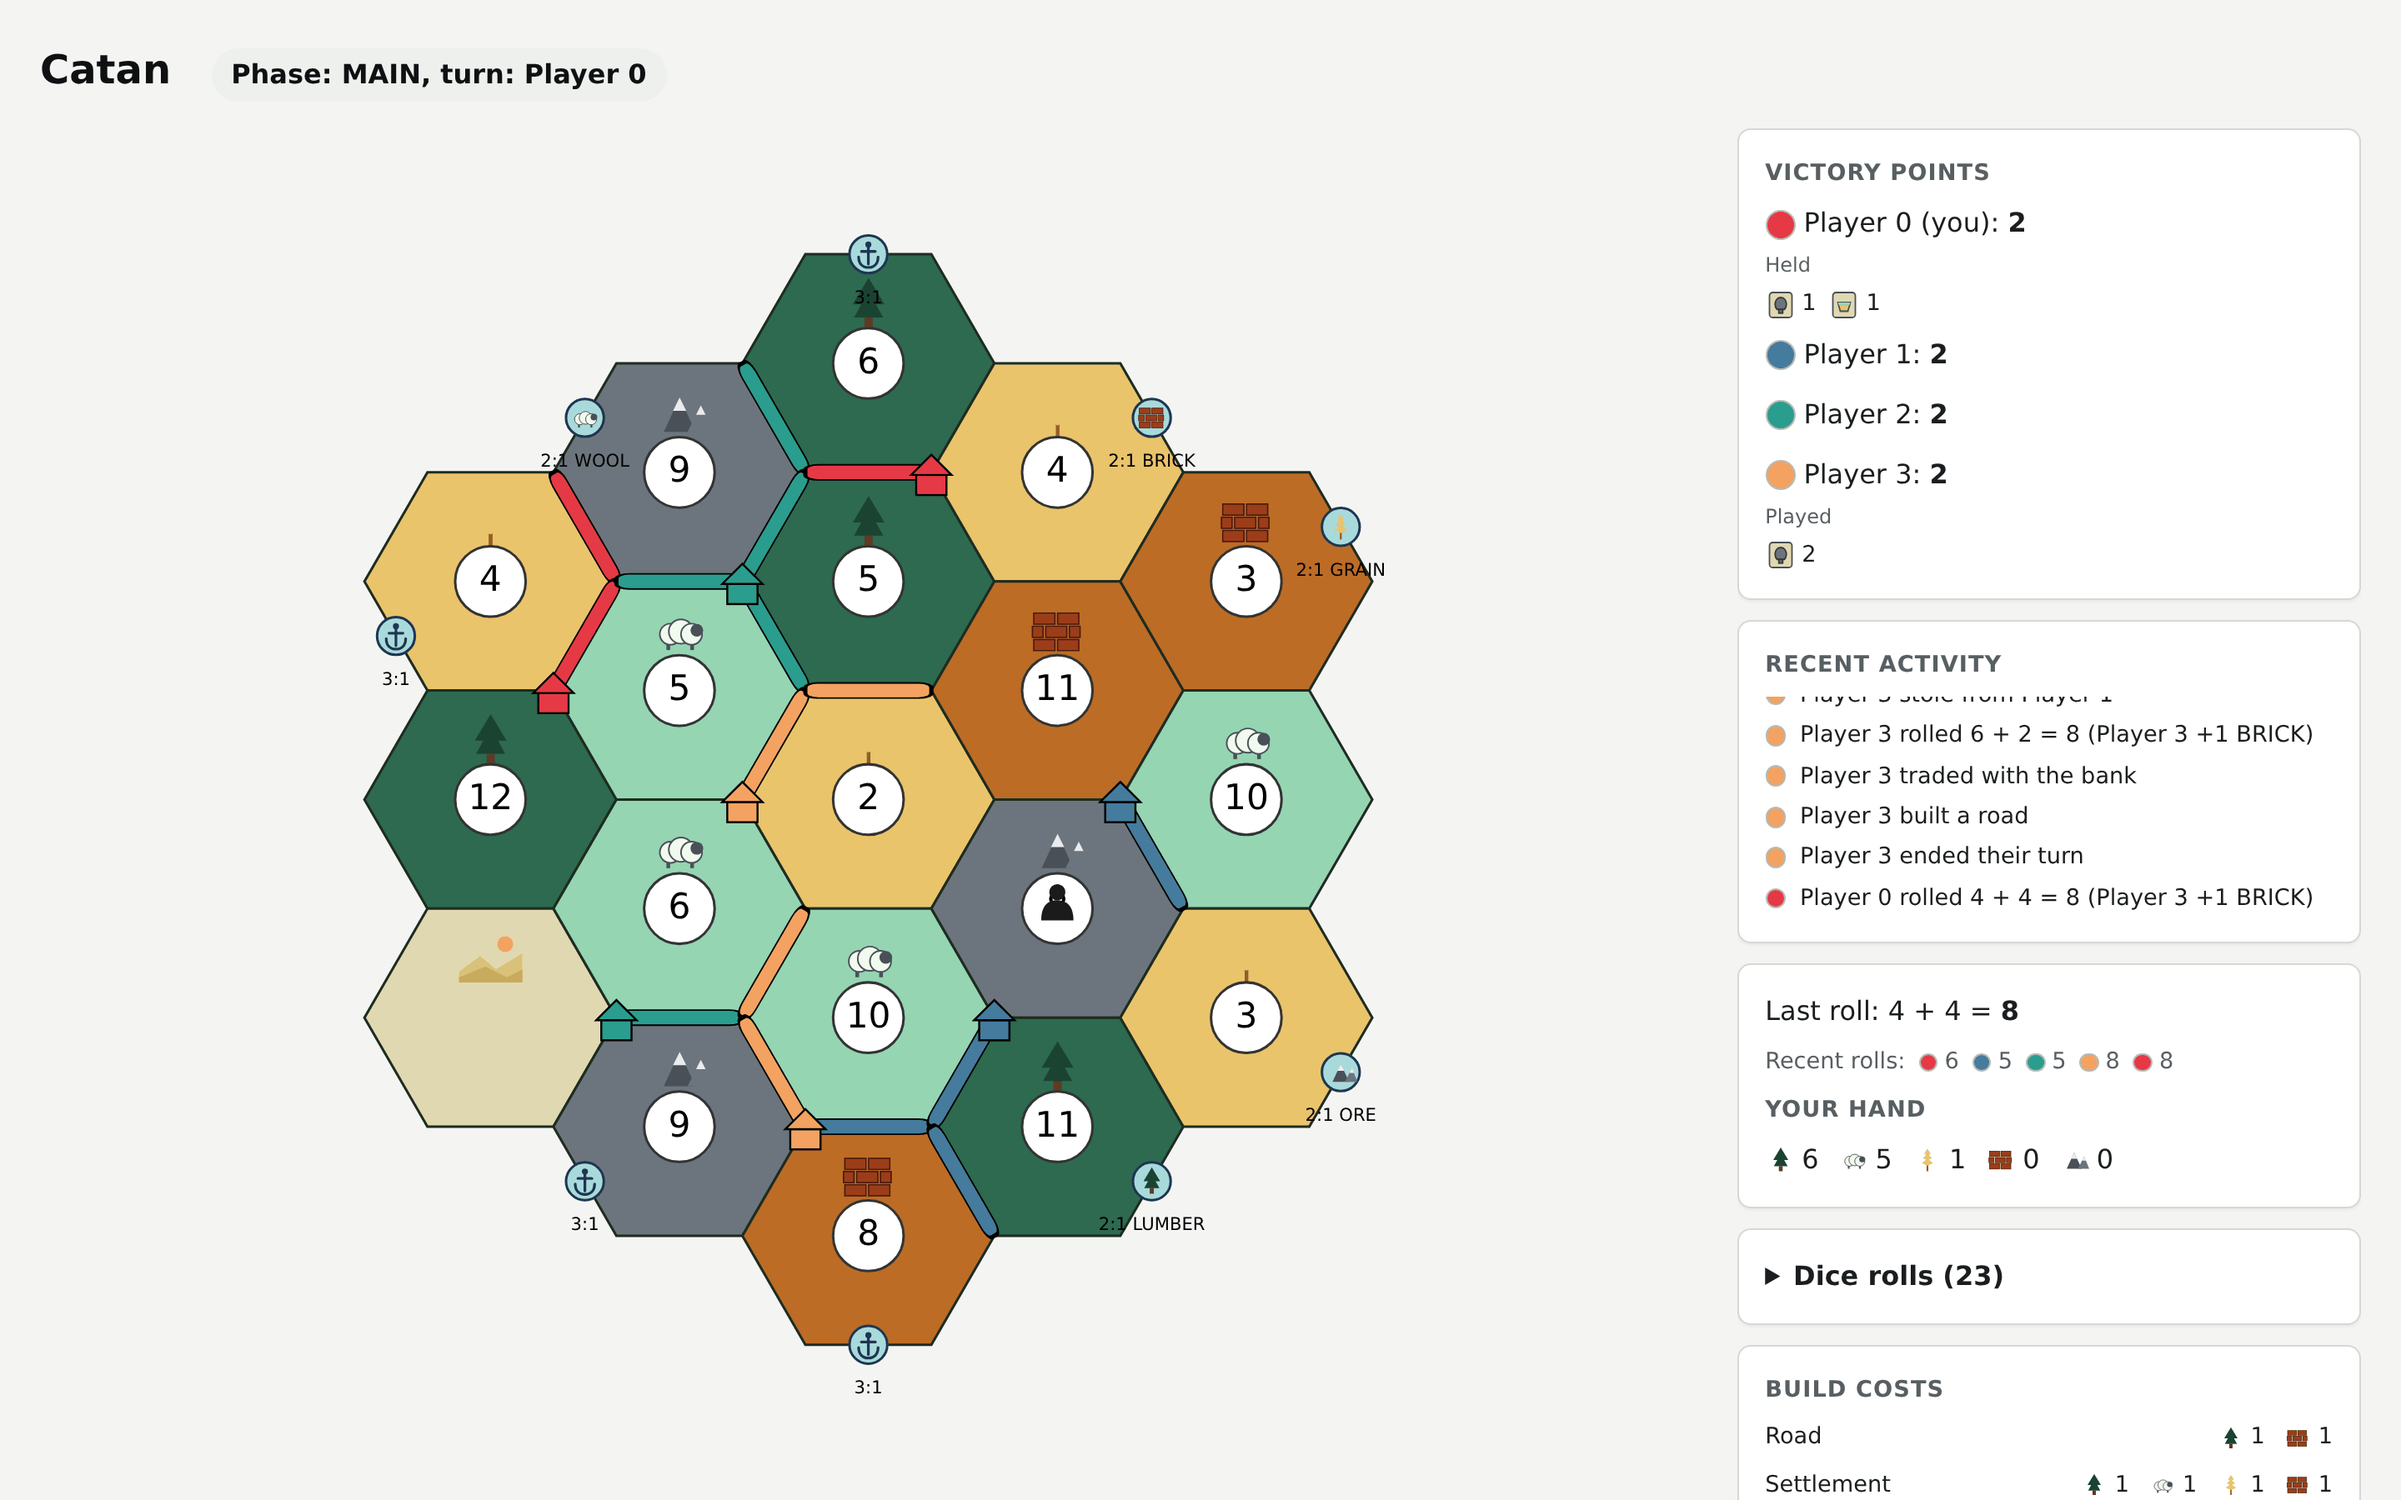
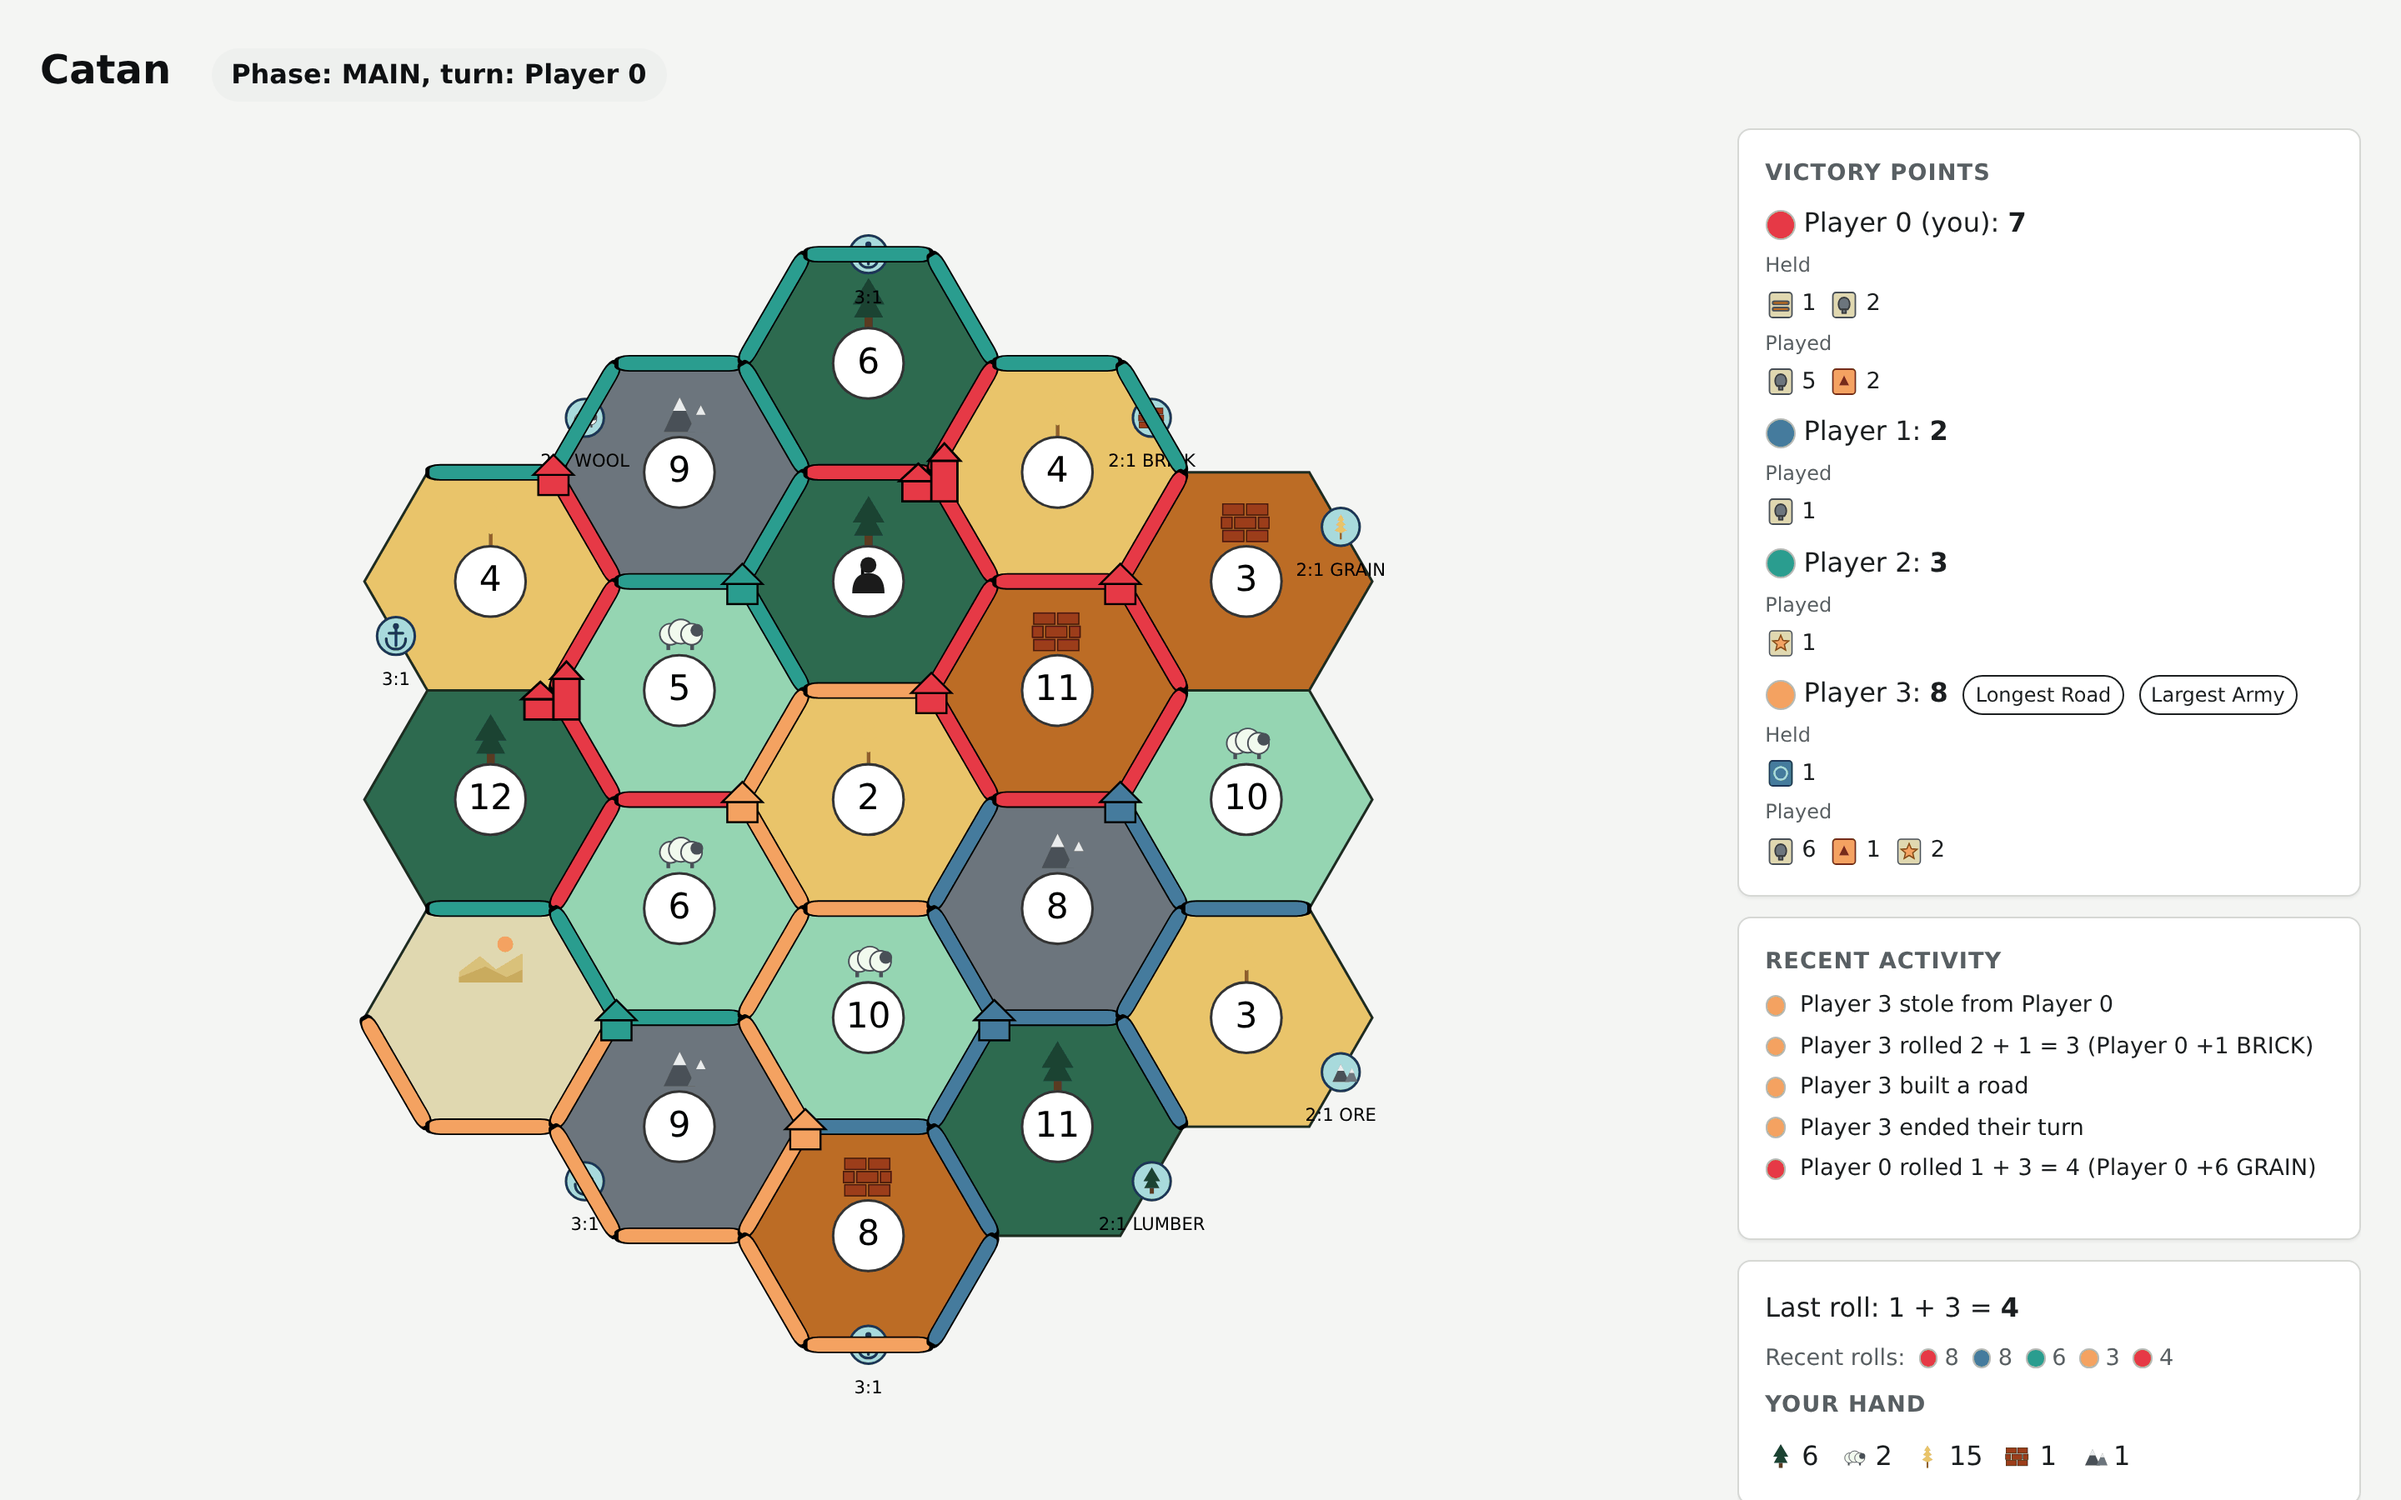
docs: later-game screenshots, whole log lines, less-dimmed GIF
- Showcase the seeded game at turn 183 (7-8 VP, cities, long roads) and
  start the GIF from turn 139, where seat 0 can build.
- Snap the activity log to whole lines for board.png (capture-only inline
  style; the clipped top line is ordinary scroll-container behaviour).
- GIF: more of the clip is the undimmed human turn; the bots' replay, which
  the app dims by design (.layout.busy), plays at 2x.

diff --git a/scripts/capture_screenshots.py b/scripts/capture_screenshots.py
@@ -63,20 +63,24 @@ DRIVER_SEED = 7
 NUM_PLAYERS = 4
 SEAT_KINDS: list[SeatKind] = ["human", "heuristic", "heuristic", "heuristic"]
 HUMAN_SEAT = 0
-# Seat 0 is played by a HeuristicAgent in-process up to this turn, so the
-# board already has settlements, cities and roads when the browser takes over.
-SHOWCASE_TURN = 18
+# Seat 0 is played by a HeuristicAgent in-process up to this turn (a count of
+# per-seat turns, ~4 per round), so the board already has cities, settlements
+# and long roads when the browser takes over -- 7-8 VP for the leaders here.
+SHOWCASE_TURN = 183
 # The GIF game stops at the first turn from here on where seat 0's roll (not a
 # 7) leaves a placement it can afford, so the clip always shows a build.
-GIF_MIN_TURN = 12
+GIF_MIN_TURN = 130
 GIF_NAME = "gameplay.gif"
 GIF_WIDTH = 900
 GIF_FPS = 10
-# Source seconds kept after the board first shows, played back GIF_SPEEDUP x
-# faster so the whole paced bot replay fits in a ~12 s clip.
-GIF_SOURCE_SECONDS = 18.0
-GIF_SPEEDUP = 1.5
+# The app dims the whole board (`.layout.busy`, opacity 0.6) for as long as a
+# move is being applied / the bots' paced replay is revealing, so that stretch
+# is played back GIF_REPLAY_SPEEDUP x faster and the clip is mostly the
+# undimmed human turn.
+GIF_REPLAY_SPEEDUP = 2.0
+GIF_TAIL_SECONDS = 1.5
 GIF_LEAD_SECONDS = 0.5
+GIF_MAX_BUILDS = 2
 MAX_GIF_BYTES = 4 * 1024 * 1024
 
 VIEWPORT = {"width": 1440, "height": 900}
@@ -188,6 +192,30 @@ def _scroll_panels(page: Page, *, to_bottom: bool) -> None:
     )
 
 
+def _snap_log_to_whole_lines(page: Page) -> None:
+    """Show only whole lines in the activity log.
+
+    The list is a fixed-height scroll area pinned to its newest entry, so
+    whichever line sits at the top edge is normally cut mid-line -- ordinary
+    scroll-container behaviour, not an app bug. Shrink the list (inline style,
+    capture only) to the whole lines that fit and re-pin it to the bottom.
+    """
+    page.evaluate(
+        """() => {
+            const ul = document.querySelector(".activity-log ul");
+            const gap = parseFloat(getComputedStyle(ul).rowGap) || 0;
+            let used = 0;
+            for (let i = ul.children.length - 1; i >= 0; i--) {
+                const next = used + ul.children[i].offsetHeight + (used ? gap : 0);
+                if (next > ul.clientHeight) break;
+                used = next;
+            }
+            ul.style.maxHeight = `${used}px`;
+            ul.scrollTop = ul.scrollHeight;
+        }"""
+    )
+
+
 def _click_action(page: Page, kind: str) -> None:
     page.get_by_role("button", name=kind, exact=True).click()
     _settle(page)
@@ -251,6 +279,7 @@ def _capture(
             _click_action(page, "EndTurn")
             _click_action(page, "RollDice")
             _scroll_panels(page, to_bottom=False)
+            _snap_log_to_whole_lines(page)
             _save_png(page, "board.png")
 
             page.locator("details.dice-panel summary").click()
@@ -294,7 +323,9 @@ def _capture(
 
 
 def _record_gif(browser: Browser, base_url: str, game_id: str, tmp: Path) -> None:
-    """Roll, build, end turn, and let the bots' paced replay play out."""
+    """Roll and build with the board undimmed, then end the turn and let the
+    bots' paced replay play out.
+    """
     ctx = browser.new_context(
         viewport=VIEWPORT,
         record_video_dir=str(tmp / "video"),
@@ -307,47 +338,64 @@ def _record_gif(browser: Browser, base_url: str, game_id: str, tmp: Path) -> Non
     page.goto(base_url)
     page.get_by_role("button", name="Resume game").click()
     page.get_by_role("heading", name="Victory points").wait_for()
-    lead = time.monotonic() - started + GIF_LEAD_SECONDS
-    page.wait_for_timeout(1000)
+    start_s = time.monotonic() - started + GIF_LEAD_SECONDS
+    page.wait_for_timeout(1200)
     _click_action(page, "RollDice")
     page.wait_for_timeout(1000)
-    # Prefer a settlement/city over a road: it changes the board more.
+    # Vertex targets (settlement/city) come before edge targets in the DOM, so
+    # the first build is a settlement/city whenever one is affordable.
     targets = page.locator("circle.highlight-vertex, rect.edge-hit-target")
-    targets.first.hover()
-    page.wait_for_timeout(600)
-    targets.first.click()
-    page.wait_for_selector("em:has-text('applying your move')", state="detached")
-    page.wait_for_timeout(1000)
-    # End the turn and watch the paced replay, un-skipped.
+    for _ in range(GIF_MAX_BUILDS):
+        if targets.count() == 0:
+            break
+        targets.first.hover()
+        page.wait_for_timeout(800)
+        targets.first.click()
+        page.wait_for_selector("em:has-text('applying your move')", state="detached")
+        page.wait_for_timeout(1000)
+    replay_s = time.monotonic() - started
     page.get_by_role("button", name="EndTurn", exact=True).click()
     page.wait_for_selector("em:has-text('applying your move')", state="detached")
-    page.wait_for_timeout(1500)
+    page.wait_for_timeout(int(GIF_TAIL_SECONDS * 1000))
+    end_s = time.monotonic() - started
     video = page.video
     assert video is not None
     ctx.close()  # finalizes the webm
-    _encode_gif(Path(video.path()), max(lead, 0.0), tmp)
+    _encode_gif(Path(video.path()), start_s, replay_s, end_s, tmp)
 
 
-def _encode_gif(webm: Path, start_s: float, tmp: Path) -> None:
+def _encode_gif(
+    webm: Path, start_s: float, replay_s: float, end_s: float, tmp: Path
+) -> None:
+    """Two-pass palettegen/paletteuse; ``[start_s, replay_s)`` at 1x, the rest
+    (the bots' replay) at ``GIF_REPLAY_SPEEDUP`` x. Times are seconds into the
+    recording.
+    """
     if shutil.which("ffmpeg") is None:
         raise RuntimeError("--gif needs ffmpeg on PATH")
     palette = tmp / "palette.png"
-    trim = ["-ss", f"{start_s:.2f}", "-t", f"{GIF_SOURCE_SECONDS}", "-i", str(webm)]
-    scale = f"setpts=PTS/{GIF_SPEEDUP},fps={GIF_FPS},scale={GIF_WIDTH}:-1:flags=lanczos"
-    base = ["ffmpeg", "-y", "-loglevel", "error"]
+    chain = (
+        f"[0:v]split=2[a][b];"
+        f"[a]trim=start={start_s:.2f}:end={replay_s:.2f},setpts=PTS-STARTPTS[a1];"
+        f"[b]trim=start={replay_s:.2f}:end={end_s:.2f},"
+        f"setpts=(PTS-STARTPTS)/{GIF_REPLAY_SPEEDUP}[b1];"
+        f"[a1][b1]concat=n=2:v=1:a=0,fps={GIF_FPS},"
+        f"scale={GIF_WIDTH}:-1:flags=lanczos"
+    )
+    base = ["ffmpeg", "-y", "-loglevel", "error", "-i", str(webm)]
     subprocess.run(
-        [*base, *trim, "-vf", f"{scale},palettegen=stats_mode=diff", str(palette)],
+        [*base, "-filter_complex", f"{chain},palettegen=stats_mode=diff", str(palette)],
         check=True,
     )
     out = OUT_DIR / GIF_NAME
+    use = "paletteuse=dither=bayer:bayer_scale=5:diff_mode=rectangle"
     subprocess.run(
         [
             *base,
-            *trim,
             "-i",
             str(palette),
-            "-lavfi",
-            f"{scale}[x];[x][1:v]paletteuse=dither=bayer:bayer_scale=5:diff_mode=rectangle",
+            "-filter_complex",
+            f"{chain}[x];[x][1:v]{use}",
             str(out),
         ],
         check=True,
